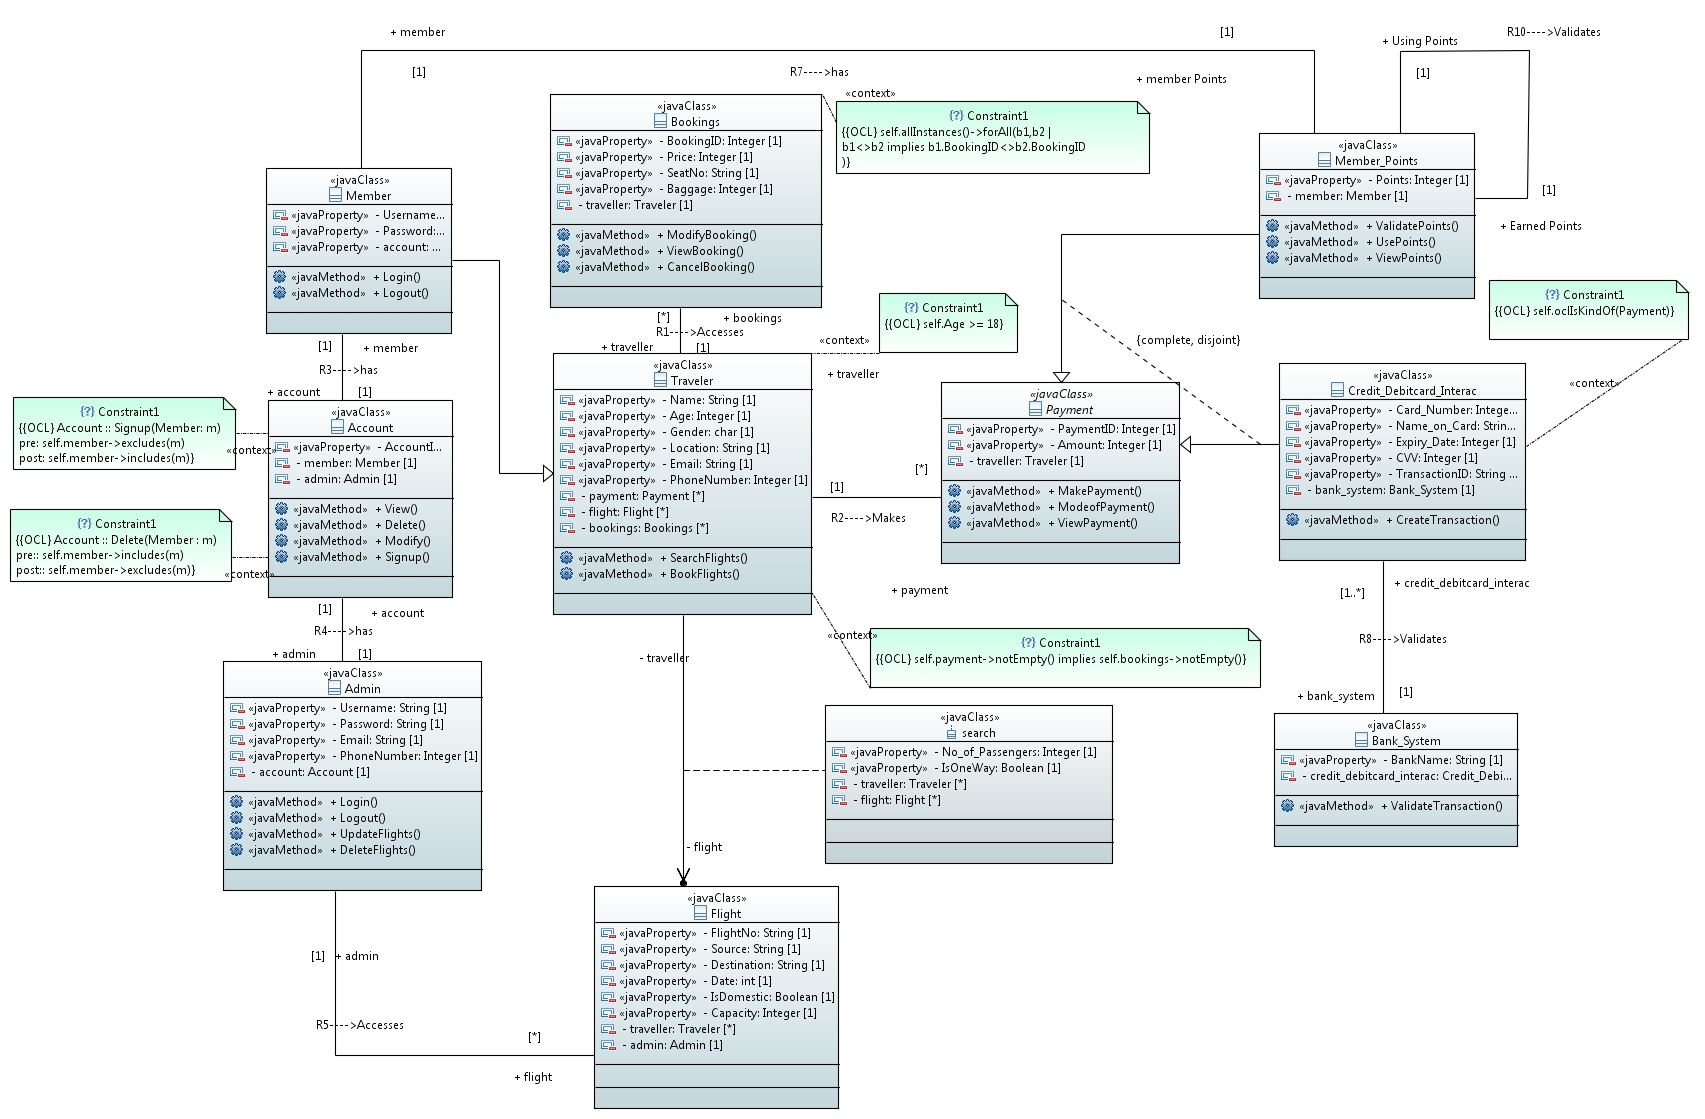
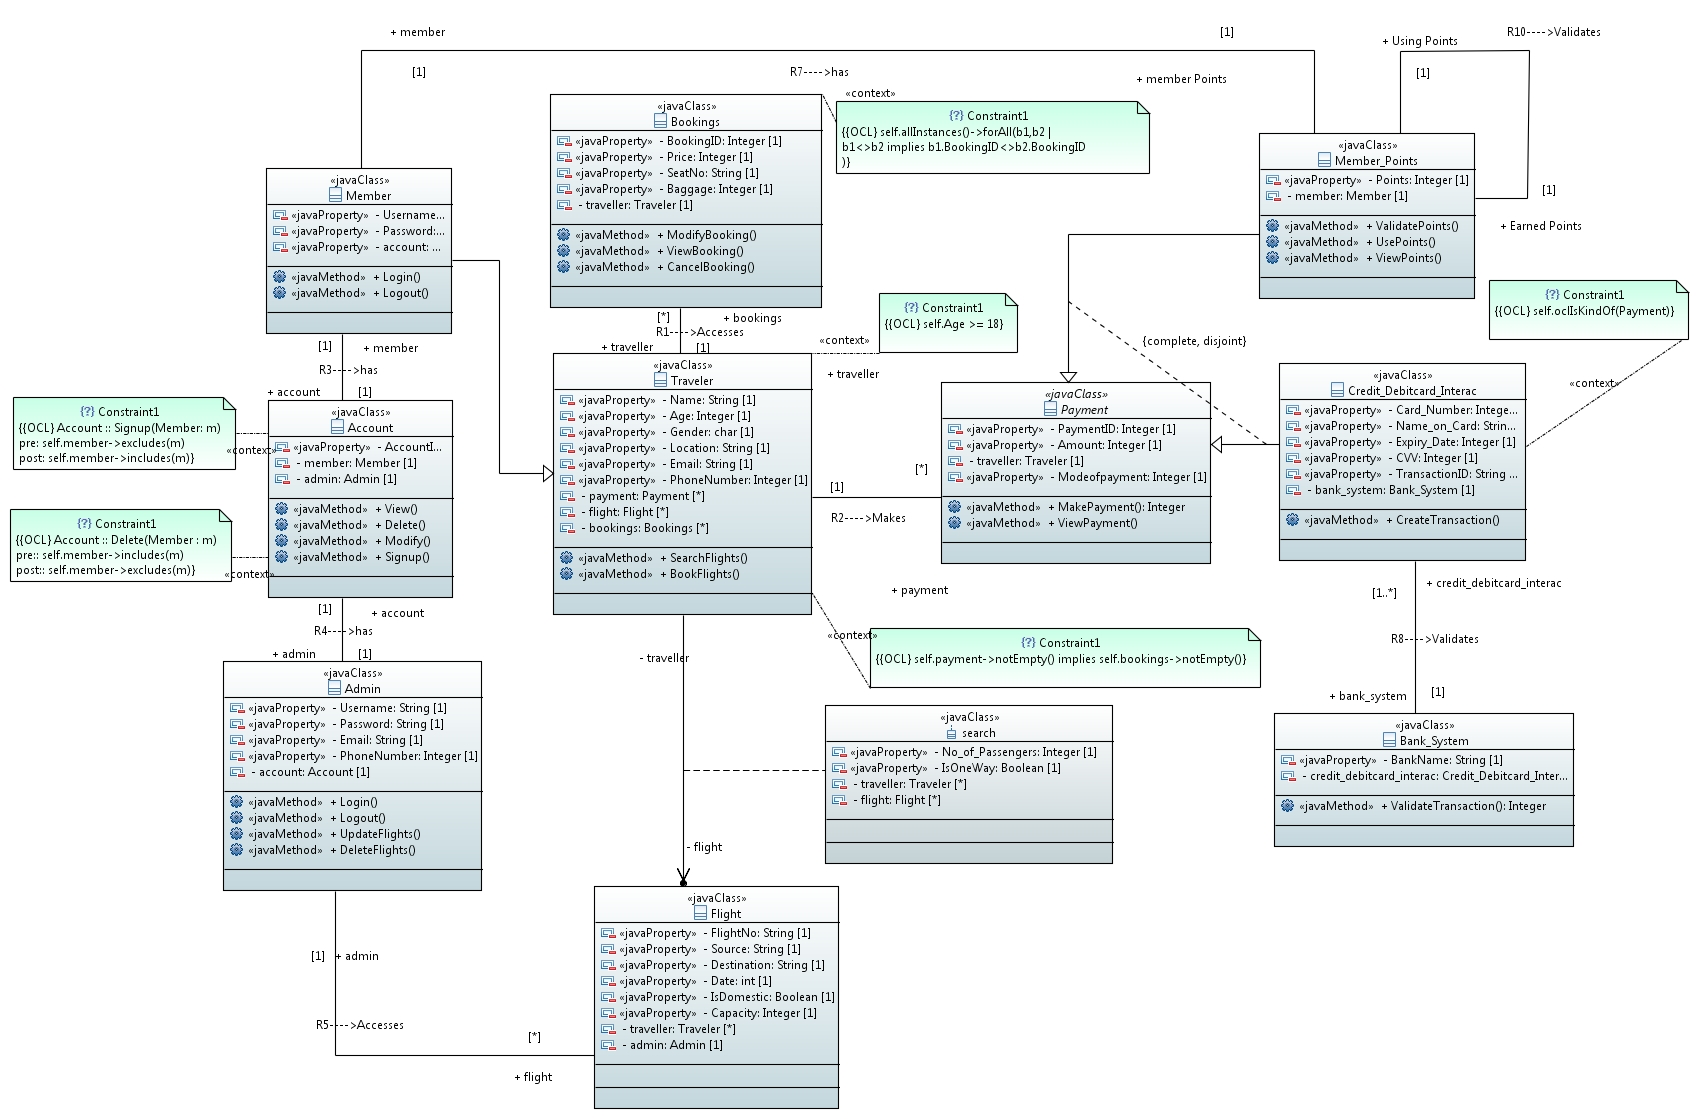
Modified generated for data type and class diagram with updated method and data type

diff --git a/D5_Code_Generation/First_Generated_Source_with_pseudo_javacode/Payment.java b/D5_Code_Generation/First_Generated_Source_with_pseudo_javacode/Payment.java
@@ -9,6 +9,10 @@ public class Payment {
 	/**
 	 * 
 	 */
+	private String Modeofpayment;
+	/**
+	 * 
+	 */	
 	private Integer Amount;
 	/**
 	 * 
@@ -39,6 +43,18 @@ public class Payment {
 		 this.Amount = Amount; 
 	}
 	/**
+	 * Getter of PaymentID
+	 */
+	public String getModeofpayment() {
+	 	 return Modeofpayment; 
+	}
+	/**
+	 * Setter of PaymentID
+	 */
+	public void setModeofpayment(String Modeofpayment) { 
+		 this.Modeofpayment = Modeofpayment; 
+	}	
+	/**
 	 * Getter of traveller
 	 */
 	public Traveler getTraveller() {
@@ -53,14 +69,9 @@ public class Payment {
 	/**
 	 * 
 	 */
-	public void MakePayment() { 
+	public Integer MakePayment() { 
 		// TODO Auto-generated method
-	 }
-	/**
-	 * 
-	 */
-	public void ModeofPayment() { 
-		// TODO Auto-generated method
+		return 0;
 	 }
 	/**
 	 * 

diff --git a/D5_Code_Generation/First_Generated_Source_with_pseudo_javacode/Flight.java b/D5_Code_Generation/First_Generated_Source_with_pseudo_javacode/Flight.java
@@ -1,6 +1,7 @@
 
 
 import java.util.List;
+import java.util.Date;
 
 public class Flight {
 
@@ -23,7 +24,7 @@ public class Flight {
 	/**
 	 * 
 	 */
-	private int Date;
+	private Date Date;
 	/**
 	 * 
 	 */
@@ -87,13 +88,13 @@ public class Flight {
 	/**
 	 * Getter of Date
 	 */
-	public int getDate() {
+	public Date getDate() {
 	 	 return Date; 
 	}
 	/**
 	 * Setter of Date
 	 */
-	public void setDate(int Date) { 
+	public void setDate(Date Date) { 
 		 this.Date = Date; 
 	}
 	/**

diff --git a/D5_Code_Generation/First_Generated_Source_with_pseudo_javacode/Bank_System.java b/D5_Code_Generation/First_Generated_Source_with_pseudo_javacode/Bank_System.java
@@ -39,8 +39,9 @@ public class Bank_System {
 	/**
 	 * 
 	 */
-	public void ValidateTransaction() { 
+	public Integer ValidateTransaction() { 
 		// TODO Auto-generated method
+		return 0;
 	 } 
 
 }
